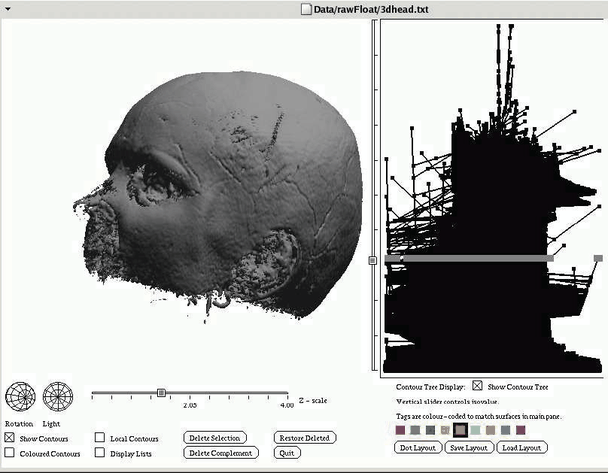
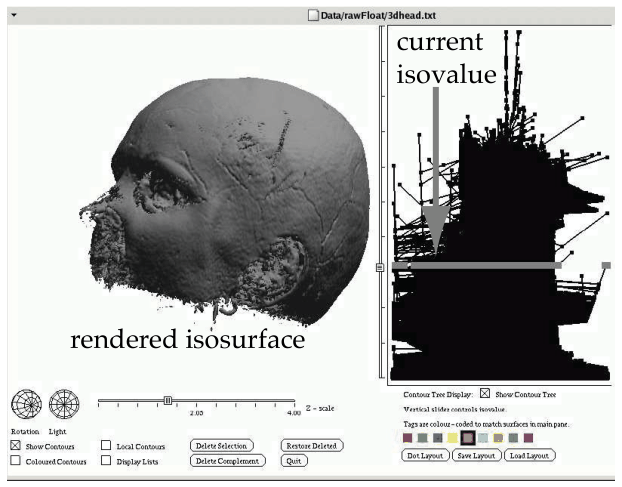
fix(data-visualisation): keep library names out of cited text and recrop two figures
The tightened C4 gate allows plotting-library names only in [NOT FROM BOOK]
text. Three cited routing lines named matplotlib and D3; they now say "code"
or "implementation hints", matching their siblings. Regenerating the figures
with the fixed figures.py crops Figures 8.5 and 8.6 from the page, so the labels
drawn on their rasters are kept. The package README installs by the ^0.1.0
semver range, since no v0.1.0 tag exists. Word counts, reports and the
lockfile are regenerated; check.py reports 0 FAIL.

diff --git a/packages/data-visualisation/provenance/reports/self-check.md b/packages/data-visualisation/provenance/reports/self-check.md
@@ -6,9 +6,9 @@ Written by `tools/check.py`: one row per gate of the build rubric. NOT-CHECKABLE
 | --- | --- | --- |
 | A1 | PASS | 326/326 TOC entries mapped; plan and disk agree |
 | A2 | PASS | 299/299 files reachable from SKILL.md (lookup.md not expanded) |
-| A3 | PASS | 43 idiom boxes, each with a boxed card |
+| A3 | PASS | 43 idiom boxes, each with a boxed card quoting every field of its own box and nothing else |
 | A4 | PASS | chapter 10: 10 cards (references/idioms/angle-channel.md, references/idioms/bivariate-colormaps.md, references/idioms/categorical-colormaps.md, references/idioms/colorblind-safe-colormaps.md, references/idioms/curvature-channel.md, references/idioms/motion-channels.md, references/idioms/ordered-colormaps.md, references/idioms/shape-channel.md, references/idioms/size-channels.md, references/idioms/texture-and-stippling.md) (+1 more) |
-| A5 | PASS | lookup links 131 chapters and sections and 76 idiom cards |
+| A5 | PASS | lookup links 131 chapters and sections and 76 idiom cards, and 68 concept rows to files that exist |
 | B1 | NOT-CHECKABLE | 443 use-when criteria carry at least 6 non-title content words (+1 more) |
 | B2 | PASS | 443 child items with exact sizes; every file within its size limit |
 | B3 | PASS | every node has related links; 137 book cross-references seeded |
@@ -17,9 +17,9 @@ Written by `tools/check.py`: one row per gate of the build rubric. NOT-CHECKABLE
 | B6 | NOT-CHECKABLE | every node has Children, Disambiguation and Related sections (+1 more) |
 | C1 | PASS | 646 verbatim blocks match their cited pages |
 | C2 | PASS | 4827 paragraphs, items and rows cited within range |
-| C3 | PASS | 299 files carry valid metadata and leaf page ranges |
-| C4 | PASS | markers are well placed; unmarked text is traced by C1 and C2 |
-| C5 | PASS | ledger documents every level and each file's fidelity matches it |
+| C3 | PASS | 299 files carry valid metadata; every chapter-bound file's pdf_pages lies within its chapter |
+| C4 | PASS | [NOT FROM BOOK] ends only ## headings; no code block or plotting-library name outside [NOT FROM BOOK] text (figure lines and verbatim blocks are book text) |
+| C5 | PASS | the Level \| Choice \| Reason table covers every file kind once; each level's measured verbatim and summary words fit its declared Summary or Mixed choice; each file's fidelity fits its verbatim blocks |
 | C6 | NOT-CHECKABLE | 3886 cited summary units across 256 leaves and idiom cards (+1 more) |
 | D1 | PASS | 197 figures referenced with matching number, page and caption |
 | D2 | PASS | 197 manifest entries with number, page, file, caption and referencing files |
@@ -29,7 +29,7 @@ Written by `tools/check.py`: one row per gate of the build rubric. NOT-CHECKABLE
 | D6 | PASS | 314 image links resolve; file names follow fig-NN-MM |
 | E1 | PASS | j1: reaches 108 files in chapters [2, 3, 5, 7, 8, 9, 10, 12, 13] (+3 more) |
 | E2 | PASS | 76 idiom cards carry matplotlib and D3 hints |
-| E3 | PASS | 212 hint units, none cited |
+| E3 | PASS | 212 hint units, none with a p.N or pp.N-M page reference |
 | E4 | PASS | hints sit in their own sections or items, never in verbatim or summary text |
 | E5 | PASS | every file keeps its book structure with hints removed |
 | F1 | PASS | coverage.json maps 326 entries with level, path and PDF range |
@@ -47,7 +47,7 @@ Written by `tools/check.py`: one row per gate of the build rubric. NOT-CHECKABLE
 
 ## A3 PASS
 
-- 43 idiom boxes, each with a boxed card
+- 43 idiom boxes, each with a boxed card quoting every field of its own box and nothing else
 
 ## A4 PASS
 
@@ -56,7 +56,7 @@ Written by `tools/check.py`: one row per gate of the build rubric. NOT-CHECKABLE
 
 ## A5 PASS
 
-- lookup links 131 chapters and sections and 76 idiom cards
+- lookup links 131 chapters and sections and 76 idiom cards, and 68 concept rows to files that exist
 
 ## B1 NOT-CHECKABLE
 
@@ -95,15 +95,15 @@ Written by `tools/check.py`: one row per gate of the build rubric. NOT-CHECKABLE
 
 ## C3 PASS
 
-- 299 files carry valid metadata and leaf page ranges
+- 299 files carry valid metadata; every chapter-bound file's pdf_pages lies within its chapter
 
 ## C4 PASS
 
-- markers are well placed; unmarked text is traced by C1 and C2
+- [NOT FROM BOOK] ends only ## headings; no code block or plotting-library name outside [NOT FROM BOOK] text (figure lines and verbatim blocks are book text)
 
 ## C5 PASS
 
-- ledger documents every level and each file's fidelity matches it
+- the Level | Choice | Reason table covers every file kind once; each level's measured verbatim and summary words fit its declared Summary or Mixed choice; each file's fidelity fits its verbatim blocks
 
 ## C6 NOT-CHECKABLE
 
@@ -147,7 +147,7 @@ Written by `tools/check.py`: one row per gate of the build rubric. NOT-CHECKABLE
 
 ## E3 PASS
 
-- 212 hint units, none cited
+- 212 hint units, none with a p.N or pp.N-M page reference
 
 ## E4 PASS
 

diff --git a/packages/data-visualisation/.apm/skills/data-visualisation/references/jobs/j2-write-plotting-code.md b/packages/data-visualisation/.apm/skills/data-visualisation/references/jobs/j2-write-plotting-code.md
@@ -10,7 +10,7 @@ fidelity: summary
 
 # J2 Write Plotting Code
 
-The route for turning a decided idiom into code. Open the idiom's card: its idiom box says what the code must encode, and its last section holds matplotlib and D3 hints marked as not from the book [pp.124-128]. Every card is listed below or under a family node below. Then check the code with [J2 Encoding Checks](j2-encoding-checks.md) [pp.137-139]. If the idiom is not yet chosen, go to [J1 Choose a Chart or Idiom](j1-choose-idiom.md) first [p.171].
+The route for turning a decided idiom into code. Open the idiom's card: its idiom box says what the code must encode, and its last section holds implementation hints marked as not from the book [pp.124-128]. Every card is listed below or under a family node below. Then check the code with [J2 Encoding Checks](j2-encoding-checks.md) [pp.137-139]. If the idiom is not yet chosen, go to [J1 Choose a Chart or Idiom](j1-choose-idiom.md) first [p.171].
 
 ## Children
 
@@ -35,13 +35,13 @@ The route for turning a decided idiom into code. Open the idiom's card: its idio
 - [Geometric Zooming](../idioms/geometric-zooming.md) · ~598 words. **Use when** coding zoom and pan over any fixed layout, such as a zoomable scatterplot, where marks only change drawn size [pp.279-280]
 - [Highlighting](../idioms/highlighting.md) · ~701 words. **Use when** coding how clicked, hovered or brushed items are shown, by outline, colour, size or motion, in one view or linked views [pp.276-278] [p.292]
 - [11 Manipulate View](../ch11-manipulate-view/node.md) · ~1,185 words. **Use when** the interaction is anything else in one view: semantic zooming, constrained camera, animated transitions, re-sorting (LineUp), slicing, cutting or projecting [pp.267-269]
-- [11.4 Select Elements](../ch11-manipulate-view/s11-04-select-elements/node.md) · ~491 words. **Use when** coding selection targets and outcomes, or drawn link curves joining selected items across views [pp.274-279]
+- [11.4 Select Elements](../ch11-manipulate-view/s11-04-select-elements/node.md) · ~488 words. **Use when** coding selection targets and outcomes, or drawn link curves joining selected items across views [pp.274-279]
 
 ### Colour and channel cards
 
 - [Categorical Colormaps](../idioms/categorical-colormaps.md) · ~891 words. **Use when** coding a palette for a categorical column: how many colours, saturation by mark size, what to do with too many categories [pp.251-254]
 - [Ordered Colormaps](../idioms/ordered-colormaps.md) · ~912 words. **Use when** coding a sequential or diverging ramp for an ordinal or quantitative column, or deciding against a rainbow map [pp.254-259]
-- [10.3 Colormaps](../ch10-map-color-other-channels/s10-03-colormaps/node.md) · ~703 words. **Use when** two attributes share colour (Bivariate Colormaps card) or a palette must survive red–green deficiency (Colorblind-Safe card) [pp.259-260]
+- [10.3 Colormaps](../ch10-map-color-other-channels/s10-03-colormaps/node.md) · ~700 words. **Use when** two attributes share colour (Bivariate Colormaps card) or a palette must survive red–green deficiency (Colorblind-Safe card) [pp.259-260]
 - [10 Map Color and Other Channels](../ch10-map-color-other-channels/node.md) · ~815 words. **Use when** an attribute goes on size, angle, shape, curvature, motion or texture, each with its own card [pp.261-265]
 
 ### Other idiom families

diff --git a/packages/data-visualisation/.apm/skills/data-visualisation/references/ch11-manipulate-view/node.md b/packages/data-visualisation/.apm/skills/data-visualisation/references/ch11-manipulate-view/node.md
@@ -17,7 +17,7 @@ How a view changes over time in response to the user. Three design choices: chan
 - [11.1 The Big Picture](s11-01-big-picture.md) · ~448 words. **Use when** you need the map of change, select and navigate choices, with what each covers, before choosing an interaction for a view [pp.267-269]
 - [11.2 Why Change?](s11-02-why-change.md) · ~283 words. **Use when** justifying interactivity at all: a dataset too large or complex for one static view, and how change over time sits beside the other four complexity-handling options [p.269]
 - [11.3 Change View over Time](s11-03-change-view-over-time.md) · ~1,234 words. **Use when** you need the worked examples of a changing view in full: Tableau switching between bars, stacked bars and a map by drag and drop, LineUp's ranking columns and four alignments, and the frame-by-frame zoom of an adjacency matrix with the limits of animated transitions [pp.269-274]
-- [11.4 Select Elements](s11-04-select-elements/node.md) · ~491 words. **Use when** designing what a user can click or hover (items, links, attributes, levels, views), how many may be selected, how the selection is highlighted, and what it triggers next [pp.274-279]
+- [11.4 Select Elements](s11-04-select-elements/node.md) · ~488 words. **Use when** designing what a user can click or hover (items, links, attributes, levels, views), how many may be selected, how the selection is highlighted, and what it triggers next [pp.274-279]
 - [11.5 Navigate: Changing Viewpoint](s11-05-navigate-changing-viewpoint.md) · ~1,213 words. **Use when** the layout is fixed and the user must zoom, pan or rotate a camera over it; covers geometric versus semantic zooming and constrained versus unconstrained navigation [pp.279-283]. Also the hop for semantic zooming versus Chapter 14's distortion: semantic zooming changes what an item draws for the pixels it gets, so text too small to read becomes a short label, while stretching and squishing changes how much space rows and columns get; the book does not rank the two, and LiveRAC uses both at once [pp.280-281]
 - [11.6 Navigate: Reducing Attributes](s11-06-navigate-reducing-attributes.md) · ~1,016 words. **Use when** spatial field data, or abstract data with many dimensions, must be cut down to fewer dimensions interactively by slicing, cutting or projecting [pp.283-286]
 - [11.7 Further Reading](s11-07-further-reading.md) · ~204 words. **Use when** looking for primary sources on change, animated transitions, selection across linked views, semantic zooming or constrained navigation [pp.286-287]

diff --git a/packages/data-visualisation/.apm/skills/data-visualisation/references/ch10-map-color-other-channels/s10-03-colormaps/node.md b/packages/data-visualisation/.apm/skills/data-visualisation/references/ch10-map-color-other-channels/s10-03-colormaps/node.md
@@ -18,7 +18,7 @@ A colormap maps data values to colours. Its taxonomy mirrors the data types: cat
 - [10.3.2 Ordered Colormaps](s10-03-02-ordered-colormaps.md) · ~880 words. **Use when** an ordinal or quantitative attribute is coloured and you need the reasoning: sequential versus diverging construction, how many hues for which level of structure, the rainbow's three problems, monotonic-luminance fixes and segmented rainbows [pp.254-259]
 - [10.3.3 Bivariate Colormaps](s10-03-03-bivariate-colormaps.md) · ~296 words. **Use when** two attributes must share the colour channel; which combinations (binary, hierarchical, sequential, diverging, categorical) are safe, risky or poor [pp.259-260]
 - [10.3.4 Colorblind-Safe Colormap Design](s10-03-04-colorblind-safe-colormap-design.md) · ~247 words. **Use when** checking any colormap for red–green colour deficiency: the confusable pairs, varying luminance or saturation as well as hue, and simulators [p.260]
-- [Categorical Colormaps](../../idioms/categorical-colormaps.md) · ~891 words. **Use when** choosing or critiquing a palette for a categorical attribute or groupings and you want the decision rules (bin limits, saturation by mark size, remedies for too many categories) plus matplotlib and D3 code [pp.250-256]
+- [Categorical Colormaps](../../idioms/categorical-colormaps.md) · ~891 words. **Use when** choosing or critiquing a palette for a categorical attribute or groupings and you want the decision rules (bin limits, saturation by mark size, remedies for too many categories) plus code [pp.250-256]
 - [Ordered Colormaps](../../idioms/ordered-colormaps.md) · ~912 words. **Use when** choosing or critiquing a sequential or diverging colour ramp for ordinal or quantitative values, including whether a rainbow is acceptable, plus code [pp.250-259]
 - [Bivariate Colormaps](../../idioms/bivariate-colormaps.md) · ~468 words. **Use when** deciding whether to encode a second attribute in colour, or building a binary-split or two-ramp colour grid, plus code [pp.259-260]
 - [Colorblind-Safe Colormaps](../../idioms/colorblind-safe-colormaps.md) · ~407 words. **Use when** making a palette usable by viewers with red–green deficiency, or auditing one, with code [p.260]

diff --git a/packages/data-visualisation/.apm/skills/data-visualisation/SKILL.md b/packages/data-visualisation/.apm/skills/data-visualisation/SKILL.md
@@ -18,7 +18,7 @@ A navigation layer over Tamara Munzner's book, which analyses vis use through th
 ### Jobs and lookup
 
 - [J1 Choose a Chart or Idiom](references/jobs/j1-choose-idiom.md) · ~1,497 words. **Use when** a user has data and a question but no chart yet: classify the dataset and the task, then pick marks, channels, arrangement, colour and any reduction, ending at an idiom card [pp.45-46] [p.68] [p.171]
-- [J2 Write Plotting Code](references/jobs/j2-write-plotting-code.md) · ~1,498 words. **Use when** the chart type is decided and code must be written: the card with library hints for any chart, colormap or interaction (zoom, pan, brush, selection), then the channel, baseline, ordering and colour checks [pp.126-128] [pp.250-260] [pp.276-280]
+- [J2 Write Plotting Code](references/jobs/j2-write-plotting-code.md) · ~1,496 words. **Use when** the chart type is decided and code must be written: the card with library hints for any chart, colormap or interaction (zoom, pan, brush, selection), then the channel, baseline, ordering and colour checks [pp.126-128] [pp.250-260] [pp.276-280]
 - [J3 Critique a Visualisation](references/jobs/j3-critique.md) · ~1,494 words. **Use when** reviewing or improving an existing chart, dashboard or tool: name the level at which it fails, judge whether its validation evidence (a study, a survey, adoption) is enough, and check rules of thumb such as unjustified 3D, channels, colour pitfalls and overplotting [pp.99-106] [pp.141-142] [p.332]
 - [J4 Design Interactive and Multi-View Dashboards](references/jobs/j4-dashboards.md) · ~1,492 words. **Use when** a design needs several linked views, overlaid lines versus small multiples, interaction, filtering or aggregation for large data, or focus+context and elision, as in an exploratory tool or dashboard [p.269] [pp.290-292] [pp.315-317] [pp.349-350]
 - [Idiom and Concept Lookup](references/lookup.md) · ~3,032 words. **Use when** you already know a name (an idiom such as "treemap" or "SPLOM", a term such as "popout", "separability" or "nested model", or a section number) and need the file that holds it; it maps every chapter, section and idiom card of the contents [pp.6-15]

diff --git a/packages/data-visualisation/.apm/skills/data-visualisation/references/ch10-map-color-other-channels/node.md b/packages/data-visualisation/.apm/skills/data-visualisation/references/ch10-map-color-other-channels/node.md
@@ -16,7 +16,7 @@ How to map attributes to colour and to the other nonspatial channels. Colour is 
 
 - [10.1 The Big Picture](s10-01-big-picture.md) · ~275 words. **Use when** you want the one-page map of the chapter's design choices (Figure 10.1) to decide whether a question is about colour channels, colormap type or another nonspatial channel [pp.243-244]
 - [10.2 Color Theory](s10-02-color-theory/node.md) · ~413 words. **Use when** deciding which colour channel (luminance, saturation, hue, transparency) can carry an attribute and how many levels it supports, choosing a colour space to interpolate in, or setting text contrast [pp.244-250]
-- [10.3 Colormaps](s10-03-colormaps/node.md) · ~703 words. **Use when** mapping an attribute to colour: categorical versus sequential versus diverging versus bivariate by attribute type, how many colours, rainbow pitfalls and colour-deficiency safety [pp.250-260]
+- [10.3 Colormaps](s10-03-colormaps/node.md) · ~700 words. **Use when** mapping an attribute to colour: categorical versus sequential versus diverging versus bivariate by attribute type, how many colours, rainbow pitfalls and colour-deficiency safety [pp.250-260]
 - [10.4 Other Channels](s10-04-other-channels.md) · ~1,403 words. **Use when** you need all the non-colour, nonspatial channels compared in one place (accuracy, bin counts, which marks they apply to, interactions), for example to pick a second channel beside colour [pp.261-265]
 - [10.5 Further Reading](s10-05-further-reading.md) · ~221 words. **Use when** looking for primary sources on colour, ColorBrewer, the case against rainbows, bivariate colormaps, motion highlighting or texture [pp.265-266]
 - [Size Channels](../idioms/size-channels.md) · ~513 words. **Use when** an ordered attribute is shown by length, area or volume: length is extremely accurate, area mid-ranking (exponent 0.7), volume at the bottom; size also limits what other channels can show [pp.261-262]

diff --git a/packages/data-visualisation/.apm/skills/data-visualisation/references/ch11-manipulate-view/s11-04-select-elements/node.md b/packages/data-visualisation/.apm/skills/data-visualisation/references/ch11-manipulate-view/s11-04-select-elements/node.md
@@ -17,7 +17,7 @@ Letting users select one or more elements of interest is a fundamental action th
 - [11.4.1 Selection Design Choices](s11-04-01-selection-design-choices.md) · ~590 words. **Use when** deciding what can be a selection target (items, links, attributes, attribute levels, views), how many selection types (click, hover, keys, touch) and how many elements a set may hold, including empty, primary versus secondary, and groups stored as attributes [pp.275-276]
 - [11.4.2 Highlighting](s11-04-02-highlighting.md) · ~577 words. **Use when** choosing how selected items, links, attributes or views are shown: colour, outline, size, dash shape, motion, or link marks, and the trade-offs of each [pp.276-278]
 - [11.4.3 Selection Outcomes](s11-04-03-selection-outcomes.md) · ~212 words. **Use when** a selection should trigger a further action such as filtering, aggregating, re-encoding, reordering, or navigating to centre the selected item [p.279]
-- [Highlighting](../../idioms/highlighting.md) · ~701 words. **Use when** the selection is settled and you must pick its highlight quickly: an outline rather than a colour change when the existing colour coding must survive, outlines for large marks rather than small ones, motion as the unusual strong option; with matplotlib and D3 code [pp.276-278]
+- [Highlighting](../../idioms/highlighting.md) · ~701 words. **Use when** the selection is settled and you must pick its highlight quickly: an outline rather than a colour change when the existing colour coding must survive, outlines for large marks rather than small ones, motion as the unusual strong option; with code [pp.276-278]
 - [Context-Preserving Visual Links](../../idioms/context-preserving-visual-links.md) · ~511 words. **Use when** selected items or regions in juxtaposed views must be connected by drawn link curves routed around salient content [p.278]
 
 ## Disambiguation

diff --git a/packages/data-visualisation/.apm/skills/data-visualisation/references/jobs/j4-dashboards.md b/packages/data-visualisation/.apm/skills/data-visualisation/references/jobs/j4-dashboards.md
@@ -30,7 +30,7 @@ The route for a tool with several views, interaction or more data than one stati
 ### Interaction within a view
 
 - [11.3 Change View over Time](../ch11-manipulate-view/s11-03-change-view-over-time.md) · ~1,234 words. **Use when** users should re-sort, re-encode, re-align or switch idiom within a view, with animated transitions between states [pp.269-274]
-- [11.4 Select Elements](../ch11-manipulate-view/s11-04-select-elements/node.md) · ~491 words. **Use when** designing click and hover targets, selection highlighting, and what a selection triggers in this and other views [pp.274-279]
+- [11.4 Select Elements](../ch11-manipulate-view/s11-04-select-elements/node.md) · ~488 words. **Use when** designing click and hover targets, selection highlighting, and what a selection triggers in this and other views [pp.274-279]
 - [11.5 Navigate: Changing Viewpoint](../ch11-manipulate-view/s11-05-navigate-changing-viewpoint.md) · ~1,213 words. **Use when** users zoom and pan a fixed layout, and items should change representation with their pixels (semantic zooming) or the camera should be constrained [pp.279-283]
 
 ### Rules of thumb

diff --git a/packages/data-visualisation/provenance/fidelity-ledger.md b/packages/data-visualisation/provenance/fidelity-ledger.md
@@ -22,10 +22,10 @@ block (C1). Non-book text sits only in `[NOT FROM BOOK]` sections or items.
 | chapter-node | 15 | 0 | 11,996 | 20 |
 | idiom-card | 76 | 2,849 | 26,797 | 10,257 |
 | index-node | 1 | 0 | 2,765 | 0 |
-| job-node | 5 | 0 | 6,185 | 15 |
+| job-node | 5 | 0 | 6,183 | 15 |
 | router | 1 | 0 | 1,863 | 0 |
 | section-leaf | 95 | 6,122 | 32,313 | 0 |
-| section-node | 21 | 0 | 11,457 | 0 |
+| section-node | 21 | 0 | 11,451 | 0 |
 | subsection-leaf | 85 | 5,330 | 30,330 | 30 |
 
 <!-- measured-counts:end -->

diff --git a/packages/data-visualisation/provenance/reports/provenance.md b/packages/data-visualisation/provenance/reports/provenance.md
@@ -7,10 +7,10 @@ Written by `tools/check.py`. Words per file kind, frontmatter excluded. Verbatim
 | chapter-node | 15 | 0 | 11,996 | 20 |
 | idiom-card | 76 | 2,849 | 26,797 | 10,257 |
 | index-node | 1 | 0 | 2,765 | 0 |
-| job-node | 5 | 0 | 6,185 | 15 |
+| job-node | 5 | 0 | 6,183 | 15 |
 | router | 1 | 0 | 1,863 | 0 |
 | section-leaf | 95 | 6,122 | 32,313 | 0 |
-| section-node | 21 | 0 | 11,457 | 0 |
+| section-node | 21 | 0 | 11,451 | 0 |
 | subsection-leaf | 85 | 5,330 | 30,330 | 30 |
 
 ## C1 verbatim check

diff --git a/packages/data-visualisation/README.md b/packages/data-visualisation/README.md
@@ -11,7 +11,7 @@ Munzner's *Visualization Analysis and Design* as a page-cited reference for choo
 ## Install
 
 ```bash
-apm install Samuel-Harris/foundry/packages/data-visualisation#v0.1.0 --target cursor,claude,copilot
+apm install Samuel-Harris/foundry/packages/data-visualisation#^0.1.0 --target cursor,claude,copilot
 ```
 
 ## What the skill is for
